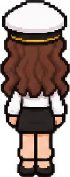
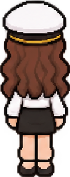
Correct rear outfit construction and prevent leg seam tearing

diff --git a/代码/macOS/game/game.js b/代码/macOS/game/game.js
@@ -67,17 +67,17 @@ function drawWalkingPlayer() {
       ctx.clearRect(0, p.root, w, h - p.root);
       walkingBodies.set(sprite, body);
     }
-    const middle = (p.left + p.right) / 2;
+    const middle = Math.floor(w / 2);
     for (let leg = 0; leg < 2; leg++) {
       const cycle = Math.sin(walkingTime + leg * Math.PI);
-      const left = sideFacing ? 0 : leg === 0 ? 0 : middle;
-      const width = sideFacing ? w : leg === 0 ? middle : w - middle;
+      const left = sideFacing ? 0 : leg === 0 ? 0 : middle - 1;
+      const width = sideFacing ? w : leg === 0 ? middle + 1 : w - middle + 1;
       for (let y = p.root; y < h; y++) {
         const t = (y - p.root) / (h - p.root - 1);
         const ease = t * t * (3 - 2 * t);
         const swing = Math.max(0, Math.cos(walkingTime + leg * Math.PI));
         const bend = Math.sin(t * Math.PI) * swing;
-        const dx = Math.round((cycle * ease + bend * .25) * p.travel * stride * (sideFacing ? 3.2 : .7));
+        const dx = sideFacing ? Math.round((cycle * ease + bend * .25) * p.travel * stride * 3.2) : 0;
         const vertical = sideFacing ? -swing * .45 : cycle * 1.2 - swing * p.lift * .4;
         const dy = vertical * ease * stride;
         const nextT = Math.min(1, t + 1 / (h - p.root - 1));

diff --git a/tests/MotionReview.cs b/tests/MotionReview.cs
@@ -4,8 +4,28 @@ using System.Drawing.Drawing2D;
 using System.IO;
 internal static class MotionReview
 {
+    static int InnerGap(Bitmap b, int center, int y)
+    {
+        if (b.GetPixel(center,y).A>128) return 0;
+        int left=center,right=center;
+        while(left>Math.Max(0,center-12) && b.GetPixel(left-1,y).A<=128) left--;
+        while(right<Math.Min(b.Width-1,center+12) && b.GetPixel(right+1,y).A<=128) right++;
+        return right-left+1;
+    }
     static int Main(string[] args)
     {
+        // Solid cloth must stay joined while its two leg regions move.
+        using(var cloth=new Bitmap(85,177))
+        using(var cg=Graphics.FromImage(cloth))
+        using(var frame=new Bitmap(85,177))
+        using(var fg=Graphics.FromImage(frame))
+        {
+            cg.FillRectangle(Brushes.Navy,20,100,45,65);
+            fg.InterpolationMode=InterpolationMode.NearestNeighbor;
+            fg.PixelOffsetMode=PixelOffsetMode.Half;
+            using(var motion=new WalkMotion(cloth,"16-test.png")) motion.Draw(fg,(float)(Math.PI*1.5),1);
+            if(frame.GetPixel(42,150).A<240) throw new Exception("Solid trouser cloth split during the outward step");
+        }
         string[] files = Directory.GetFiles(args[0], "*.png"); Array.Sort(files);
         using (var sheet = new Bitmap(1800, 1400))
         using (var g = Graphics.FromImage(sheet))
@@ -21,13 +41,13 @@ internal static class MotionReview
                 using (var bg = Graphics.FromImage(baseline)) { bg.InterpolationMode = InterpolationMode.NearestNeighbor; bg.PixelOffsetMode = PixelOffsetMode.Half; bg.DrawImageUnscaled(image, 0, 0); }
                 int changes = 0, legChanges = 0;
                 var profile = WalkMotion.Profiles[Path.GetFileName(files[i]).Substring(0,2)];
-                for (int pose = 0; pose < 5; pose++)
+                for (int pose = 0; pose < 17; pose++)
                 using (var frame = new Bitmap(image.Width, image.Height))
                 using (var fg = Graphics.FromImage(frame))
                 {
                     fg.InterpolationMode = InterpolationMode.NearestNeighbor;
                     fg.PixelOffsetMode = PixelOffsetMode.Half;
-                    motion.Draw(fg, (float)((pose - 1) * Math.PI / 2), pose == 0 ? 0 : 1);
+                    motion.Draw(fg, (float)((pose - 1) * Math.PI / 8), pose == 0 ? 0 : 1);
                     for (int y = 0; y < image.Height; y++)
                     for (int x = 0; x < image.Width; x++)
                     {
@@ -39,8 +59,20 @@ internal static class MotionReview
                             changes++;
                             if (y > profile.Root + 3 && y < image.Height - 12) legChanges++;
                         }
+                        int center=image.Width/2;
+                        if (args.Length <= 2 && pose > 0 && y > profile.Root+2 && y < image.Height-10 && x == center)
+                        {
+                            int natural=0;
+                            for(int near=y-2;near<=y+2;near++) natural=Math.Max(natural,InnerGap(baseline,center,near));
+                            if(natural<9 && InnerGap(frame,center,y)>natural+1)
+                                throw new Exception("Leg gap widened beyond the original silhouette: " + files[i] + " y=" + y);
+                        }
+                        if (args.Length <= 2 && pose > 0 && y >= profile.Root && y < image.Height-10 && x == center &&
+                            baseline.GetPixel(center-1,y).A>240 && baseline.GetPixel(center,y).A>240 && baseline.GetPixel(center+1,y).A>240 && c.A<32)
+                            throw new Exception("Opened a transparent garment seam: " + files[i] + " y=" + y);
                     }
-                    g.DrawImageUnscaled(frame, i % 3 * 600 + pose * 118 + (118-image.Width)/2, i / 3 * 200 + 15);
+                    if(pose==0 || (pose-1)%4==0)
+                        g.DrawImageUnscaled(frame, i % 3 * 600 + (pose==0 ? 0 : 1+(pose-1)/4) * 118 + (118-image.Width)/2, i / 3 * 200 + 15);
                 }
                 g.DrawString(Path.GetFileName(files[i]).Substring(0,2), font, Brushes.Black, i % 3 * 600 + 4, i / 3 * 200 + 2);
                 if (changes == 0) throw new Exception("No animation: " + files[i]);

diff --git a/代码/Windows/WalkMotion.cs b/代码/Windows/WalkMotion.cs
@@ -69,12 +69,12 @@ internal sealed class WalkMotion : IDisposable
                 }
             return;
         }
-        float middle = (profile.Left + profile.Right) / 2f;
+        int middle = image.Width / 2;
         for (int leg = 0; leg < 2; leg++)
         {
             float cycle = (float)Math.Sin(phase + leg * Math.PI);
-            float left = sideView ? 0 : leg == 0 ? 0 : middle;
-            float width = sideView ? image.Width : leg == 0 ? middle : image.Width - middle;
+            float left = sideView ? 0 : leg == 0 ? 0 : middle - 1;
+            float width = sideView ? image.Width : leg == 0 ? middle + 1 : image.Width - middle + 1;
             for (int y = profile.Root; y < image.Height; y++)
             {
                 float t = (y - profile.Root) / (float)(image.Height - profile.Root - 1);
@@ -83,7 +83,9 @@ internal sealed class WalkMotion : IDisposable
                 float ease = t * t * (3 - 2 * t);
                 float swing = Math.Max(0, (float)Math.Cos(phase + leg * Math.PI));
                 float bend = (float)Math.Sin(t * Math.PI) * swing;
-                float dx = (float)Math.Round((cycle * ease + bend * .25f) * profile.Travel * amount * (sideView ? 3.2f : .7f));
+                // Front/back depth steps keep the inseam anchored. Opposing
+                // horizontal shifts used to tear an artificial gap in the cloth.
+                float dx = sideView ? (float)Math.Round((cycle * ease + bend * .25f) * profile.Travel * amount * 3.2f) : 0;
                 // Side walking is a planted forward/back leg swing, not marching.
                 // Exposed calves deform from the hem, not just the shoe region.
                 float vertical = sideView ? -swing * .45f : cycle * 1.2f - swing * profile.Lift * .4f;

diff --git a/docs/walking-animation.md b/docs/walking-animation.md
@@ -27,3 +27,11 @@ Validation: Windows build and direction/movement self-test; all 21 outfits rende
 Side and back atlases were redrawn to match the original front-view head/torso/leg proportions, with reduced side-face and hair volume. Atlas slicing follows the main connected silhouette to exclude neighboring fragments. All views remain at the same 177px standing height.
 
 Side gait now keeps feet close to ground level, with alternating forward/back leg swing instead of the previous marching lift. Pixel-rounded displacement reduces shimmering; exposed calves deform from their attachment below the hem. Short-skirt and trouser pose checks now require actual movement above the shoes. Front/back lift and body bounce were reduced. This is an original gait inspired by the user's Stardew Valley reference, using the project's own artwork.
+
+## Rear garment construction and seam repair
+
+Rear artwork has been corrected across the 21-outfit atlas: front chest bows, front belt buckles and large front scarf tails are removed from the rear; the ball-gown hair ribbon stays at the side of the hair, sunglasses show their rear/temple structure, rear cap straps are retained and jackets use closed back panels. The existing scale and outfit identities are retained.
+
+The garment crack was reproduced with a solid-cloth regression fixture: opposing horizontal shifts opened transparent pixels in previously continuous material. Front/back steps now use depth changes with no opposing lateral split; integer center division and a two-pixel shared source region keep the center attachment connected. Side-view swing remains unchanged.
+
+Validation checks all 21 outfits across front/side/back views at rest plus 16 walking phases (1,071 rendered poses). Checks cover original idle artwork, unchanged upper body, actual calf movement, new transparent garment seams and widened inner-leg gaps. The solid-cloth fixture failed before the repair and passes after it. Windows build and room/direction/movement self-test pass; macOS source syntax checked, runtime not executed here.
